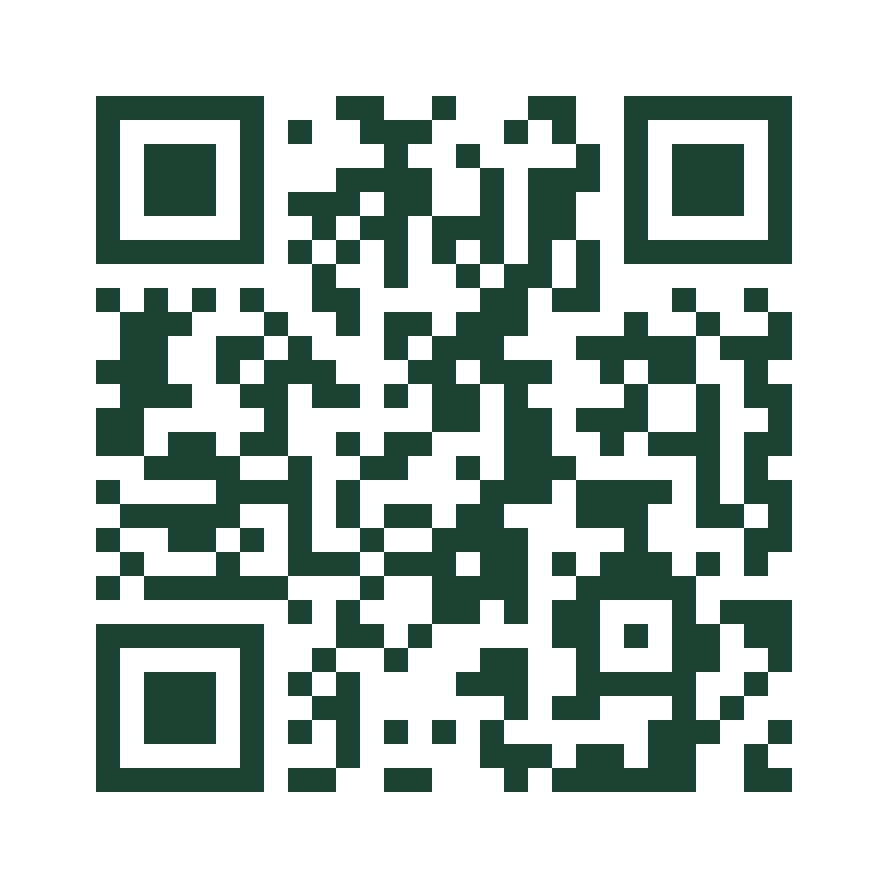
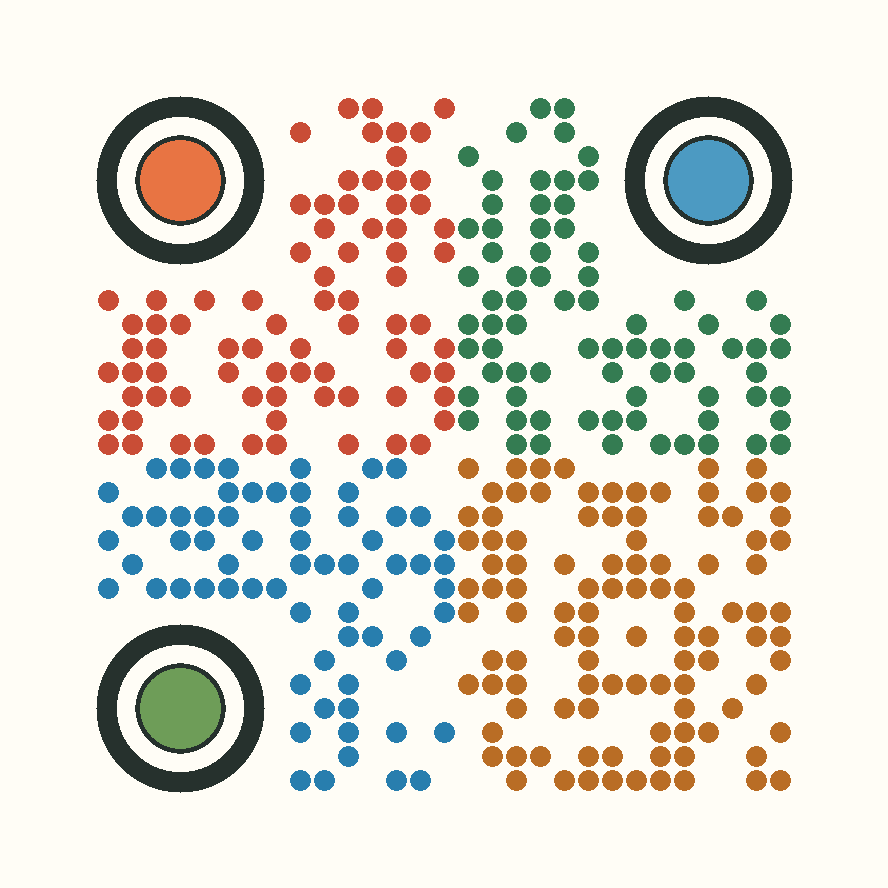
Style Fruit Bazaar QR with colorful dotted modules

Changed region(s): [[0.0912, 0.0912, 0.9122, 0.9122]]

diff --git a/README.md b/README.md
@@ -21,5 +21,6 @@ Photo backgrounds and web fonts load online. The website is a visual demo; it is
 
 ## Visiting card
 
-`fruit-bazaar-card-front.svg` is the single-sided print artwork, designed at 3.75 × 2.25 inches including 1/8-inch bleed. Its high-contrast website QR sits on a warm-white scan plaque beside shaded fruit artwork. Trim to 3.5 × 2 inches after printing.
+`fruit-bazaar-card-front.svg` is the single-sided print artwork, designed at 3.75 × 2.25 inches including 1/8-inch bleed. Its colorful dotted QR uses circular finder eyes on a warm-white plaque beside shaded fruit artwork; it still links to the live website. Trim to 3.5 × 2 inches after printing.
 
+The matching QR assets are available as SVG and PNG. The QR retains its standard module arrangement and quiet zone, with contrast-forward fruit-market colors.
